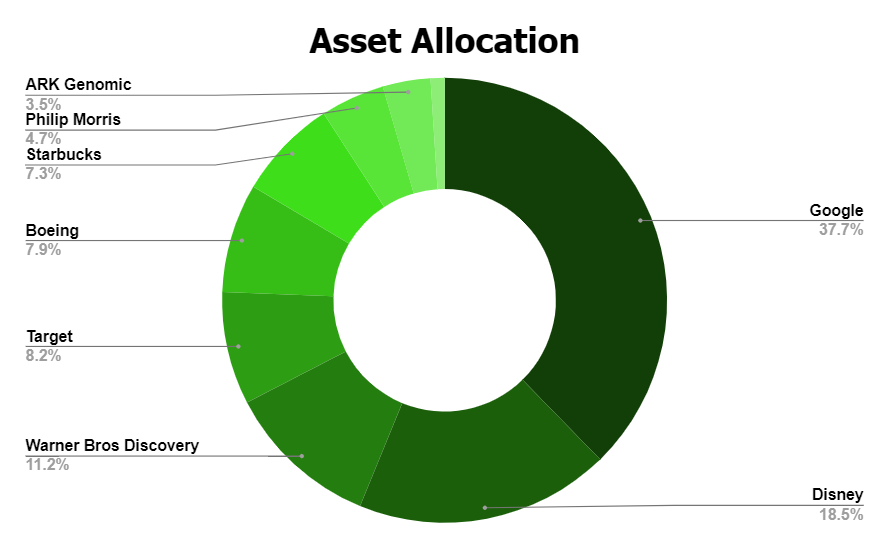
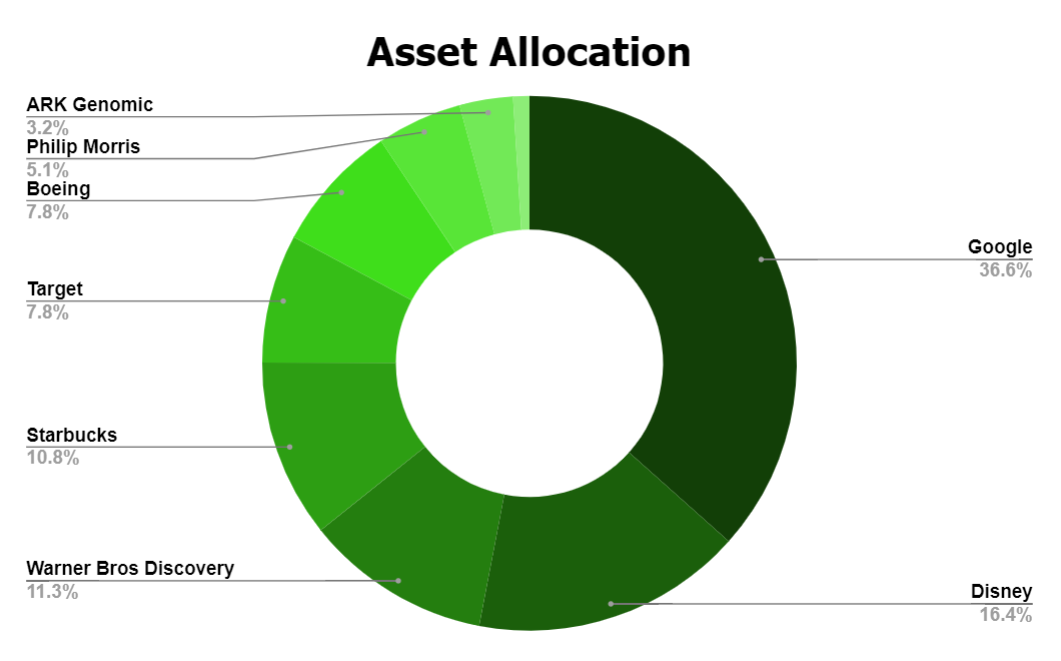
updated stock page

diff --git a/stockPage/stockPage.html b/stockPage/stockPage.html
@@ -75,7 +75,7 @@
                         </td>
                         <td class = "reasonIOwnTDPercentOfPortfolio">
                             <h3 class="reasonIOwnHeaderPercentOfPortfolio">
-                                Percent of Portfolio: 37.7%
+                                Percent of Portfolio: 36.6%
                             </h3>
                         </td>
                     </tr>
@@ -121,7 +121,7 @@
                         </td>
                         <td class = "reasonIOwnTDPercentOfPortfolio">
                             <h3 class="reasonIOwnHeaderPercentOfPortfolio">
-                                Percent of Portfolio: 18.5%
+                                Percent of Portfolio: 16.4%
                             </h3>
                         </td>
                     </tr>
@@ -160,7 +160,7 @@
                         </td>
                         <td class = "reasonIOwnTDPercentOfPortfolio">
                             <h3 class="reasonIOwnHeaderPercentOfPortfolio">
-                                Percent of Portfolio: 11.2%
+                                Percent of Portfolio: 11.3%
                             </h3>
                         </td>
                     </tr>
@@ -183,6 +183,46 @@
             </div>
         </div>
 
+        
+
+        <div class="stockPhilosphyText" style="display: flex;">
+            <div class="companyLogo-container">
+                <img src="../images/StockPage/SBUXLogo.png" alt="Logo" class="companyLogo" onclick="openLinkInNewTab('https://finance.yahoo.com/quote/SBUX');">
+            </div>
+            <div class="reasonIOwnDiv">
+                <table class="reasonIOwnTable">
+                    <tr colspan="2" class = "reasonIOwnTR">
+                        <td class = "reasonIOwnTD">
+                            <h2 class="reasonIOwnHeader">
+                                Reason I Own Starbuck
+                            </h2>
+                        </td>
+                        <td class = "reasonIOwnTDPercentOfPortfolio">
+                            <h3 class="reasonIOwnHeaderPercentOfPortfolio">
+                                Percent of Portfolio: 10.8%
+                            </h3>
+                        </td>
+                    </tr>
+                </table>
+                <h3 class="reasonIOwnDescriptionWritingHeader">Why Starbucks Brews Up a Strong Investment: A Look Through My Lens</h3>
+                <p class = "reasonIOwnDescriptionWriting">Starbucks is a compelling choice, brimming with potential for long-term growth. Here's why this coffee giant fits seamlessly into my long-term portfolio strategy, aligning with the "coma test," pricing power, brand loyalty, and the "Becky portfolio" approach.</p>
+                <h3 class="reasonIOwnDescriptionWritingHeader">Coma Test: A Brand Built to Endure</h3>
+                <p class = "reasonIOwnDescriptionWriting">Imagine waking up in 2124. Would Starbucks still be a thriving giant? I would think yes. Starbucks boasts a powerful brand with a fiercely loyal customer base. Their coffee shops are more than just places to grab a caffeine fix; they're social hubs, productivity havens, and ingrained in everyday routines. This enduring appeal positions Starbucks to continue serving (and profiting from) customers for decades to come.</p>
+                <h3 class="reasonIOwnDescriptionWritingHeader">Pricing Power: A Moat Against the Competition</h3>
+                <p class = "reasonIOwnDescriptionWriting">Starbucks isn't afraid to charge a premium for their coffee. Yet, their lines remain long. This pricing power is a testament to the brand's strength. It creates a "moat" around their business, shielding them from price wars and ensuring consistent profitability. Even with competitors offering cheaper coffee, the Starbucks experience holds a unique value for its patrons.</p>
+                <h3 class="reasonIOwnDescriptionWritingHeader">Barriers to Entry: Not Just Beans and Brews</h3>
+                <p class = "reasonIOwnDescriptionWriting">Opening a coffee shop isn't enough to compete with Starbucks. The company has built a robust infrastructure, a complex supply chain, and meticulous quality control. Replicating this intricate system is a significant barrier for new entrants, allowing Starbucks to maintain its market dominance and healthy profit margins.</p>
+                <h3 class="reasonIOwnDescriptionWritingHeader">Sticking to What I Know: A Brand I Understand</h3>
+                <p class = "reasonIOwnDescriptionWriting">I prioritize companies I can personally understand. Starbucks falls into this category. I drive past a Starbucks frequently and I can see the line is always long. Their business model is clear, their products are familiar, and their financial health – with billions in profit and a strong balance sheet – inspires confidence.</p>
+                <h3 class="reasonIOwnDescriptionWritingHeader">Contrarianism and Boycotts: When Fear Brews Opportunity</h3>
+                <p class = "reasonIOwnDescriptionWriting">While the recent boycott against Starbucks due to their stance on the Israel Palestine conflict, might be concerning to some, I view it through a contrarian lens. Political tensions are temporary, and Starbucks' brand loyalty is strong. When the dust settles, I believe customers will return to their favorite coffee shop. In fact, this boycott might even present a buying opportunity if the stock price dips.</p>
+                <h3 class="reasonIOwnDescriptionWritingHeader">The Becky Factor: Aligning with Powerful Trends</h3>
+                <p class = "reasonIOwnDescriptionWriting">The "Becky portfolio" strategy resonates with me because it taps into the undeniable spending power of young, affluent women. Starbucks perfectly aligns with this trend. It's a brand widely popular with this demographic, and their "treat yourself" mentality bodes well for Starbucks' continued success.</p>
+                <p class = "reasonIOwnDescriptionWriting">In conclusion, Starbucks embodies the qualities I seek in a long-term investment. Their powerful brand, loyal customer base, pricing power, and strong financial health make them a compelling holding for any investor seeking stability and growth. While the "coma test," pricing power, and "Becky factor" might not be traditional investment metrics, they serve as valuable tools within my personal investment philosophy.</p>
+            </div>
+        </div>
+
+
         <div class="stockPhilosphyText" style="display: flex;">
             <div class="companyLogo-container">
                 <img src="../images/StockPage/targetLogo.png" alt="Logo" class="companyLogo" onclick="openLinkInNewTab('https://finance.yahoo.com/quote/TGT');">
@@ -197,7 +237,7 @@
                         </td>
                         <td class = "reasonIOwnTDPercentOfPortfolio">
                             <h3 class="reasonIOwnHeaderPercentOfPortfolio">
-                                Percent of Portfolio: 8.2%
+                                Percent of Portfolio: 7.8%
                             </h3>
                         </td>
                     </tr>
@@ -236,7 +276,7 @@
                         </td>
                         <td class = "reasonIOwnTDPercentOfPortfolio">
                             <h3 class="reasonIOwnHeaderPercentOfPortfolio">
-                                Percent of Portfolio: 7.9%
+                                Percent of Portfolio: 7.8%
                             </h3>
                         </td>
                     </tr>
@@ -258,44 +298,6 @@
 
 
 
-        <div class="stockPhilosphyText" style="display: flex;">
-            <div class="companyLogo-container">
-                <img src="../images/StockPage/SBUXLogo.png" alt="Logo" class="companyLogo" onclick="openLinkInNewTab('https://finance.yahoo.com/quote/SBUX');">
-            </div>
-            <div class="reasonIOwnDiv">
-                <table class="reasonIOwnTable">
-                    <tr colspan="2" class = "reasonIOwnTR">
-                        <td class = "reasonIOwnTD">
-                            <h2 class="reasonIOwnHeader">
-                                Reason I Own Starbuck
-                            </h2>
-                        </td>
-                        <td class = "reasonIOwnTDPercentOfPortfolio">
-                            <h3 class="reasonIOwnHeaderPercentOfPortfolio">
-                                Percent of Portfolio: 7.3%
-                            </h3>
-                        </td>
-                    </tr>
-                </table>
-                <h3 class="reasonIOwnDescriptionWritingHeader">Why Starbucks Brews Up a Strong Investment: A Look Through My Lens</h3>
-                <p class = "reasonIOwnDescriptionWriting">Starbucks is a compelling choice, brimming with potential for long-term growth. Here's why this coffee giant fits seamlessly into my long-term portfolio strategy, aligning with the "coma test," pricing power, brand loyalty, and the "Becky portfolio" approach.</p>
-                <h3 class="reasonIOwnDescriptionWritingHeader">Coma Test: A Brand Built to Endure</h3>
-                <p class = "reasonIOwnDescriptionWriting">Imagine waking up in 2124. Would Starbucks still be a thriving giant? I would think yes. Starbucks boasts a powerful brand with a fiercely loyal customer base. Their coffee shops are more than just places to grab a caffeine fix; they're social hubs, productivity havens, and ingrained in everyday routines. This enduring appeal positions Starbucks to continue serving (and profiting from) customers for decades to come.</p>
-                <h3 class="reasonIOwnDescriptionWritingHeader">Pricing Power: A Moat Against the Competition</h3>
-                <p class = "reasonIOwnDescriptionWriting">Starbucks isn't afraid to charge a premium for their coffee. Yet, their lines remain long. This pricing power is a testament to the brand's strength. It creates a "moat" around their business, shielding them from price wars and ensuring consistent profitability. Even with competitors offering cheaper coffee, the Starbucks experience holds a unique value for its patrons.</p>
-                <h3 class="reasonIOwnDescriptionWritingHeader">Barriers to Entry: Not Just Beans and Brews</h3>
-                <p class = "reasonIOwnDescriptionWriting">Opening a coffee shop isn't enough to compete with Starbucks. The company has built a robust infrastructure, a complex supply chain, and meticulous quality control. Replicating this intricate system is a significant barrier for new entrants, allowing Starbucks to maintain its market dominance and healthy profit margins.</p>
-                <h3 class="reasonIOwnDescriptionWritingHeader">Sticking to What I Know: A Brand I Understand</h3>
-                <p class = "reasonIOwnDescriptionWriting">I prioritize companies I can personally understand. Starbucks falls into this category. I drive past a Starbucks frequently and I can see the line is always long. Their business model is clear, their products are familiar, and their financial health – with billions in profit and a strong balance sheet – inspires confidence.</p>
-                <h3 class="reasonIOwnDescriptionWritingHeader">Contrarianism and Boycotts: When Fear Brews Opportunity</h3>
-                <p class = "reasonIOwnDescriptionWriting">While the recent boycott against Starbucks due to their stance on the Israel Palestine conflict, might be concerning to some, I view it through a contrarian lens. Political tensions are temporary, and Starbucks' brand loyalty is strong. When the dust settles, I believe customers will return to their favorite coffee shop. In fact, this boycott might even present a buying opportunity if the stock price dips.</p>
-                <h3 class="reasonIOwnDescriptionWritingHeader">The Becky Factor: Aligning with Powerful Trends</h3>
-                <p class = "reasonIOwnDescriptionWriting">The "Becky portfolio" strategy resonates with me because it taps into the undeniable spending power of young, affluent women. Starbucks perfectly aligns with this trend. It's a brand widely popular with this demographic, and their "treat yourself" mentality bodes well for Starbucks' continued success.</p>
-                <p class = "reasonIOwnDescriptionWriting">In conclusion, Starbucks embodies the qualities I seek in a long-term investment. Their powerful brand, loyal customer base, pricing power, and strong financial health make them a compelling holding for any investor seeking stability and growth. While the "coma test," pricing power, and "Becky factor" might not be traditional investment metrics, they serve as valuable tools within my personal investment philosophy.</p>
-            </div>
-        </div>
-
-
       
         <div class="stockPhilosphyText" style="display: flex;">
             <div class="companyLogo-container">
@@ -311,7 +313,7 @@
                         </td>
                         <td class = "reasonIOwnTDPercentOfPortfolio">
                             <h3 class="reasonIOwnHeaderPercentOfPortfolio">
-                                Percent of Portfolio: 4.7%
+                                Percent of Portfolio: 5.1%
                             </h3>
                         </td>
                     </tr>
@@ -354,7 +356,7 @@
                         </td>
                         <td class = "reasonIOwnTDPercentOfPortfolio">
                             <h3 class="reasonIOwnHeaderPercentOfPortfolio">
-                                Percent of Portfolio: 3.5%
+                                Percent of Portfolio: 3.2%
                             </h3>
                         </td>
                     </tr>
